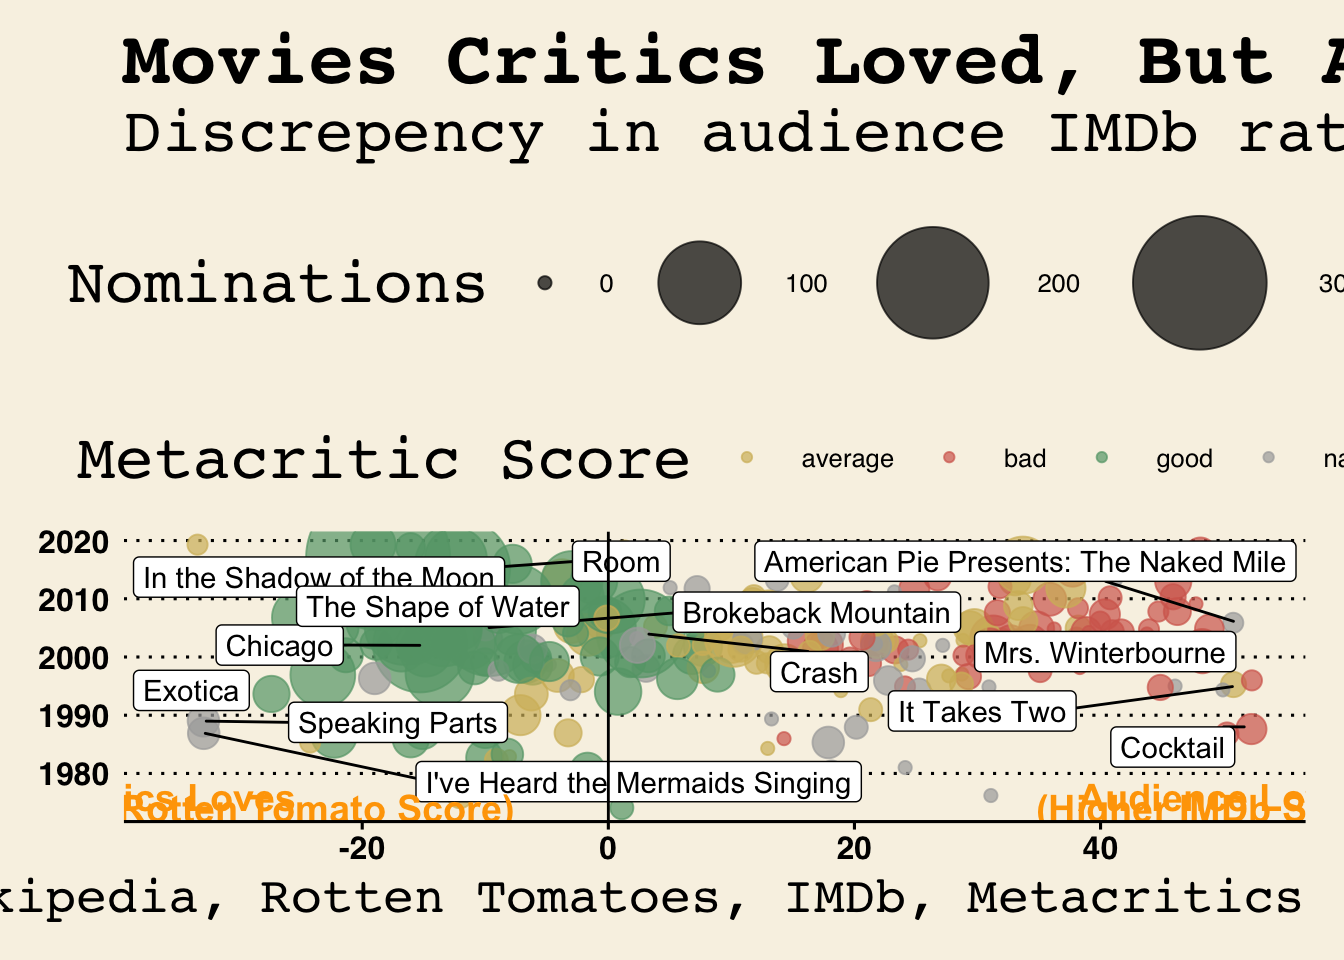
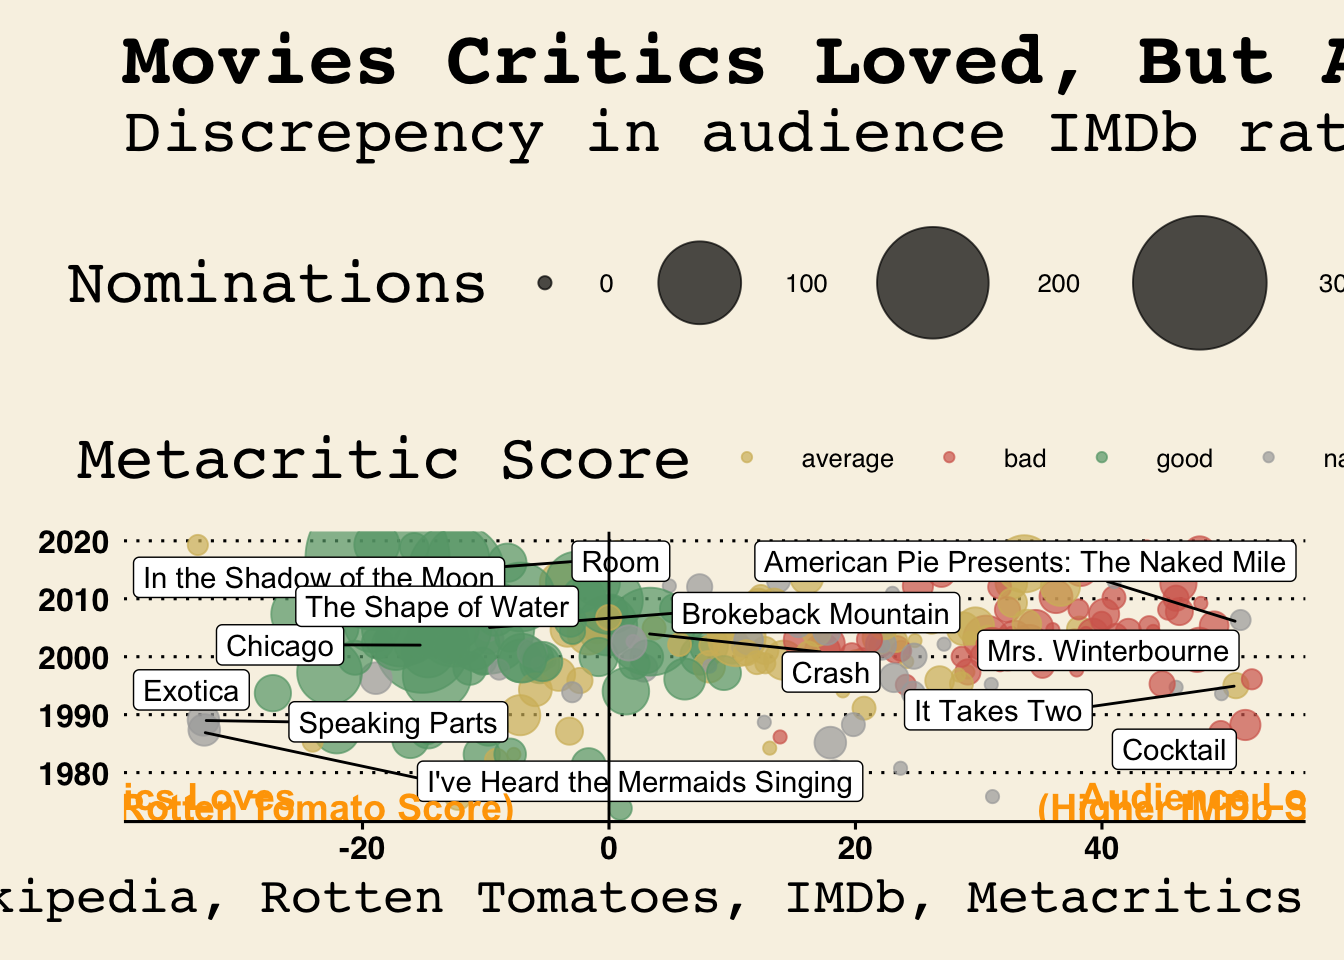
update movies data viz project

diff --git a/content/project/2021-02-05-movies-critics-loved-but-audience-really-didn-t/index.html b/content/project/2021-02-05-movies-critics-loved-but-audience-really-didn-t/index.html
@@ -11,7 +11,8 @@ tags:
   - data viz
   - r
   - recent
-summary: 'Examining IMDb, Rotten Tomatoes, and MetaCritics Scores for Movies Shot in Toronto'
+  - ggplot2
+summary: 'Examining IMDb, Rotten Tomatoes, and MetaCritics Scores for Movies Shot in Toronto using ggplot2'
 authors: []
 external_link: ''
 image:
@@ -27,45 +28,83 @@ slides: ''
 
 
 
-<div id="main-takeaway" class="section level2">
-<h2>Main Takeaway</h2>
-<pre class="r"><code>movies3 &lt;- read.csv2(&quot;/Users/maggiema/Documents/Dropped Out Courses/STA313/Assignment 1/movies3.csv&quot;, sep = &#39;,&#39;)
-
-for (i in 1:nrow(movies3)) {
-  if (is.na(movies3$nomination[i]) == TRUE) {
-    movies3$nomination[i] = 0
+<p><strong>This visualization is a passion project that aims to show the discrepancy between critic’s opinions and audience’s opinions on the same movies, generated from a list of movies filmed in Toronto.</strong> Data were scraped from Wikipedia, IMDb, Metacritics, and Rotten Tomatoes website. The visualization uses three main scores:</p>
+<ul>
+<li><a href="https://developer.imdb.com/?ref=ft_ds">IMDb ratings</a>, voted by the general audience;<br />
+</li>
+<li><a href="https://www.rottentomatoes.com">Rotten Tomatoes scores</a>, voted by critics;<br />
+</li>
+<li>and <a href="https://www.metacritic.com">Metacritic scores</a>, voted also by critics but the scores are weighted based on the reputation of critics, therefore more reputable.</li>
+</ul>
+<p>The graph also depicts the number of nominations through the area of the circles.<br />
+Movies that are loved by critics but disliked by the audience (on the left side of the graph), receive more nominations than movies which are loved by audience and disliked by critics. Titles of movies on the extreme sides of the scale were also provided for reference.</p>
+<p><img src="https://raw.githubusercontent.com/mamaggie/maggiema.rbind.io/main/content/project/2021-02-05-movies-critics-loved-but-audience-really-didn-t/featured.jpg" /></p>
+<div id="mini-tutorial" class="section level2">
+<h2>Mini Tutorial</h2>
+<div id="data" class="section level3">
+<h3>Data</h3>
+<p>Data were scraped from multiple sources. Scraped raw data can be found <a href="https://github.com/mamaggie/maggiema.rbind.io/blob/main/content/project/2021-02-05-movies-critics-loved-but-audience-really-didn-t/moviesTO_raw.csv">here</a>.</p>
+<p>After some data wrangling, prepared data ready to go for this analysis can be found <a href="https://github.com/mamaggie/maggiema.rbind.io/blob/main/content/project/2021-02-05-movies-critics-loved-but-audience-really-didn-t/moviesTO.csv">here</a>.</p>
+<p>We need three packages: <strong>ggplot2</strong> to build the graph, <strong>ggrepel</strong> for labels, and <strong>ggthemes</strong> for overall aesthetics.</p>
+<pre class="r"><code>library(ggplot2)
+library(ggrepel) 
+library(ggthemes) 
+head(movies, 5)</code></pre>
+<pre><code>##   imdb_rating metascore tomato                             title year viewLOVE
+## 1          56        NA     38                               .45 2006       18
+## 2          69        45     72         Adventures in Babysitting 1987       -3
+## 3          38        12      4      The Adventures of Pluto Nash 2002       34
+## 4          53        36     12                 Against the Ropes 2004       41
+## 5          53        NA     56 American Pie Presents: Beta House 2007       -3
+##      meta                   award nomination
+## 1      na                     N/A         NA
+## 2 average 2 wins &amp; 4 nominations.          4
+## 3     bad 1 win &amp; 12 nominations.         12
+## 4     bad          2 nominations.          2
+## 5      na                     N/A         NA</code></pre>
+<p>Here is what you need to do to make the visualization happen:</p>
+<pre class="r"><code># Get rid of NAs in data
+for (i in 1:nrow(movies)) {
+  if (is.na(movies$nomination[i]) == TRUE) {
+    movies$nomination[i] = 0
   }
 
 }
 
+# Create Annotations
 annotation &lt;- data.frame(
-  x = c(-35, 50), 
-  y = c(1976, 1976),
+  x = c(-35, 50), #x-axis location
+  y = c(1976, 1976), #y-axis location
   label = c(&#39;Critics Loves&#39;, &#39;Audience Loves&#39;)
 )
 annotation2 &lt;- data.frame(
   x = c(-29.5, 50), 
   y = c(1974, 1974),
   label = c(&#39;(Higher Rotten Tomato Score)&#39;, &#39;(Higher IMDb Score) &#39;)
-)
-
-library(ggrepel) # for geom_label_repel</code></pre>
-<pre><code>## Loading required package: ggplot2</code></pre>
-<pre class="r"><code>library(ggthemes) # for theme_wsj()
-ggplot(movies3, aes(x = viewLOVE, y = year)) + 
-  geom_point(aes(
-                                 col = meta, 
-                                 size = nomination),
-                             #position = position_jitter( w = 0.7), 
-                             alpha = 0.7, 
+)</code></pre>
+<pre class="r"><code># Plot!
+ggplot(movies, aes(x = viewLOVE, y = year)) + #refer to data
+  geom_point(aes(ol = meta, size = nomination), 
+             alpha = 0.7, #transparency
              position = &#39;jitter&#39;) + 
-  geom_label_repel(data = subset(movies3, nomination &gt; 100 | viewLOVE &lt; -25 | viewLOVE &gt; 50),aes(label = title), nudge_y = 0.7) +
-  scale_color_manual(values = c(&#39;#D3BA68&#39;, &#39;#D5695D&#39;, &#39;#65A478&#39;, &#39;darkgrey&#39;), name = &#39;Metacritic Score&#39;) + theme_wsj() + 
+  # label name of movies with more than 100 nominations and a big discrepancy in critics vs. audience scores
+  geom_label_repel( 
+    data = subset(movies, nomination &gt; 100 | viewLOVE &lt; -25 | viewLOVE &gt; 50),
+    aes(label = title), nudge_y = 0.7) + 
+  scale_color_manual(values = c(&#39;#D3BA68&#39;, &#39;#D5695D&#39;, &#39;#65A478&#39;, &#39;darkgrey&#39;), 
+                     name = &#39;Metacritic Score&#39;) + 
+  # pre-set plot theme: Wall Street Journal Style
+  theme_wsj() + 
   scale_size(range = c(2, 25), name = &#39;Nominations&#39;) + 
-  labs(title = &#39;Movies Critics Loved, But Audiences Really Didn\&#39;t&#39;, subtitle = &#39;Discrepency in audience IMDb rating &amp; critics Rotten Tomatoes score&#39;,
-       caption = &#39;Data source: Wikipedia, Rotten Tomatoes, IMDb, Metacritics&#39;) + 
-  geom_vline(xintercept = 0) + geom_text(data = annotation, aes(x = x, y = y, label = label),
-                                                                color = &#39;orange&#39;, size = 5, fontface = &#39;bold&#39;) + geom_text(data = annotation2, aes(x = x, y = y, label = label),
+  labs(title = &#39;Movies Critics Loved, But Audiences Really Didn\&#39;t&#39;, 
+       subtitle = &#39;Discrepency in audience IMDb rating &amp; critics Rotten Tomatoes score&#39;,
+       caption = &#39;Data source: Wikipedia, Rotten Tomatoes, IMDb, Metacritic&#39;) + 
+  geom_vline(xintercept = 0) + 
+  # add x-axis labels
+  geom_text(data = annotation, aes(x = x, y = y, label = label), 
+            color = &#39;orange&#39;, size = 5, fontface = &#39;bold&#39;) + 
+  geom_text(data = annotation2, aes(x = x, y = y, label = label),
             color = &#39;orange&#39;, size = 5, fontface = &#39;bold&#39;)</code></pre>
-<p><img src="{{< blogdown/postref >}}index_files/figure-html/unnamed-chunk-1-1.png" width="672" /></p>
+<p><img src="https://raw.githubusercontent.com/mamaggie/maggiema.rbind.io/main/content/project/2021-02-05-movies-critics-loved-but-audience-really-didn-t/featured.jpg" /></p>
+</div>
 </div>
